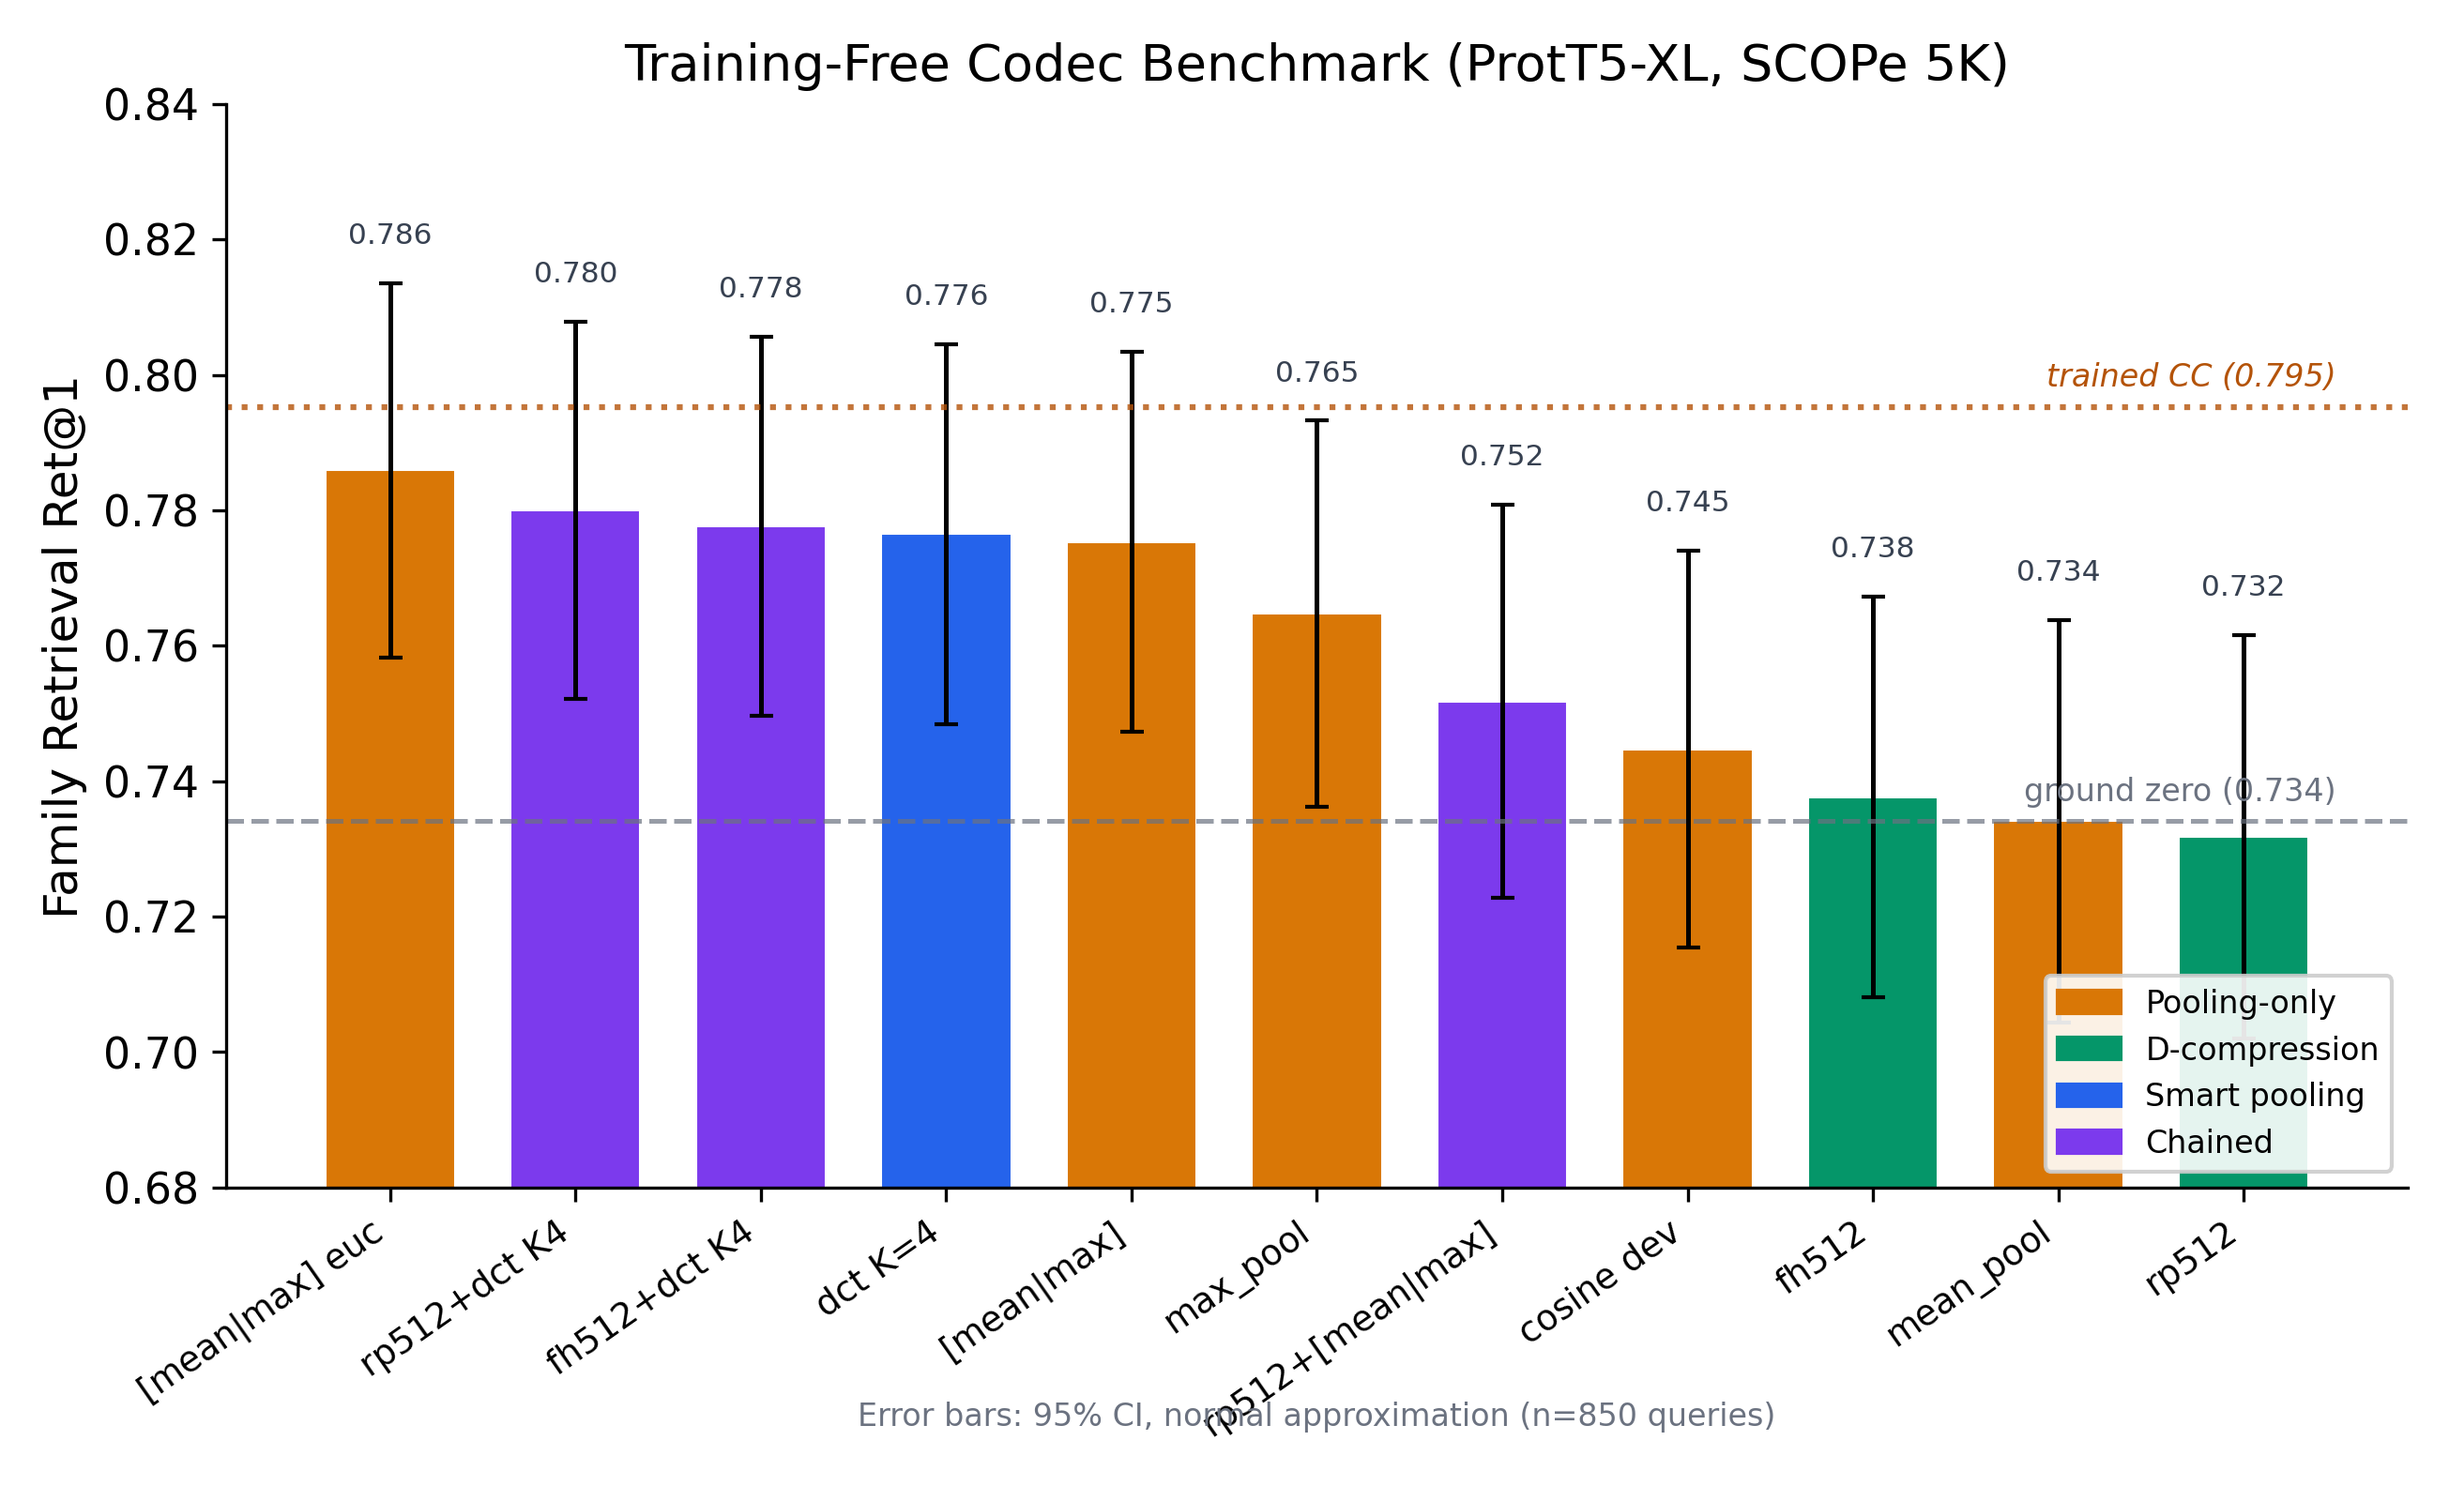
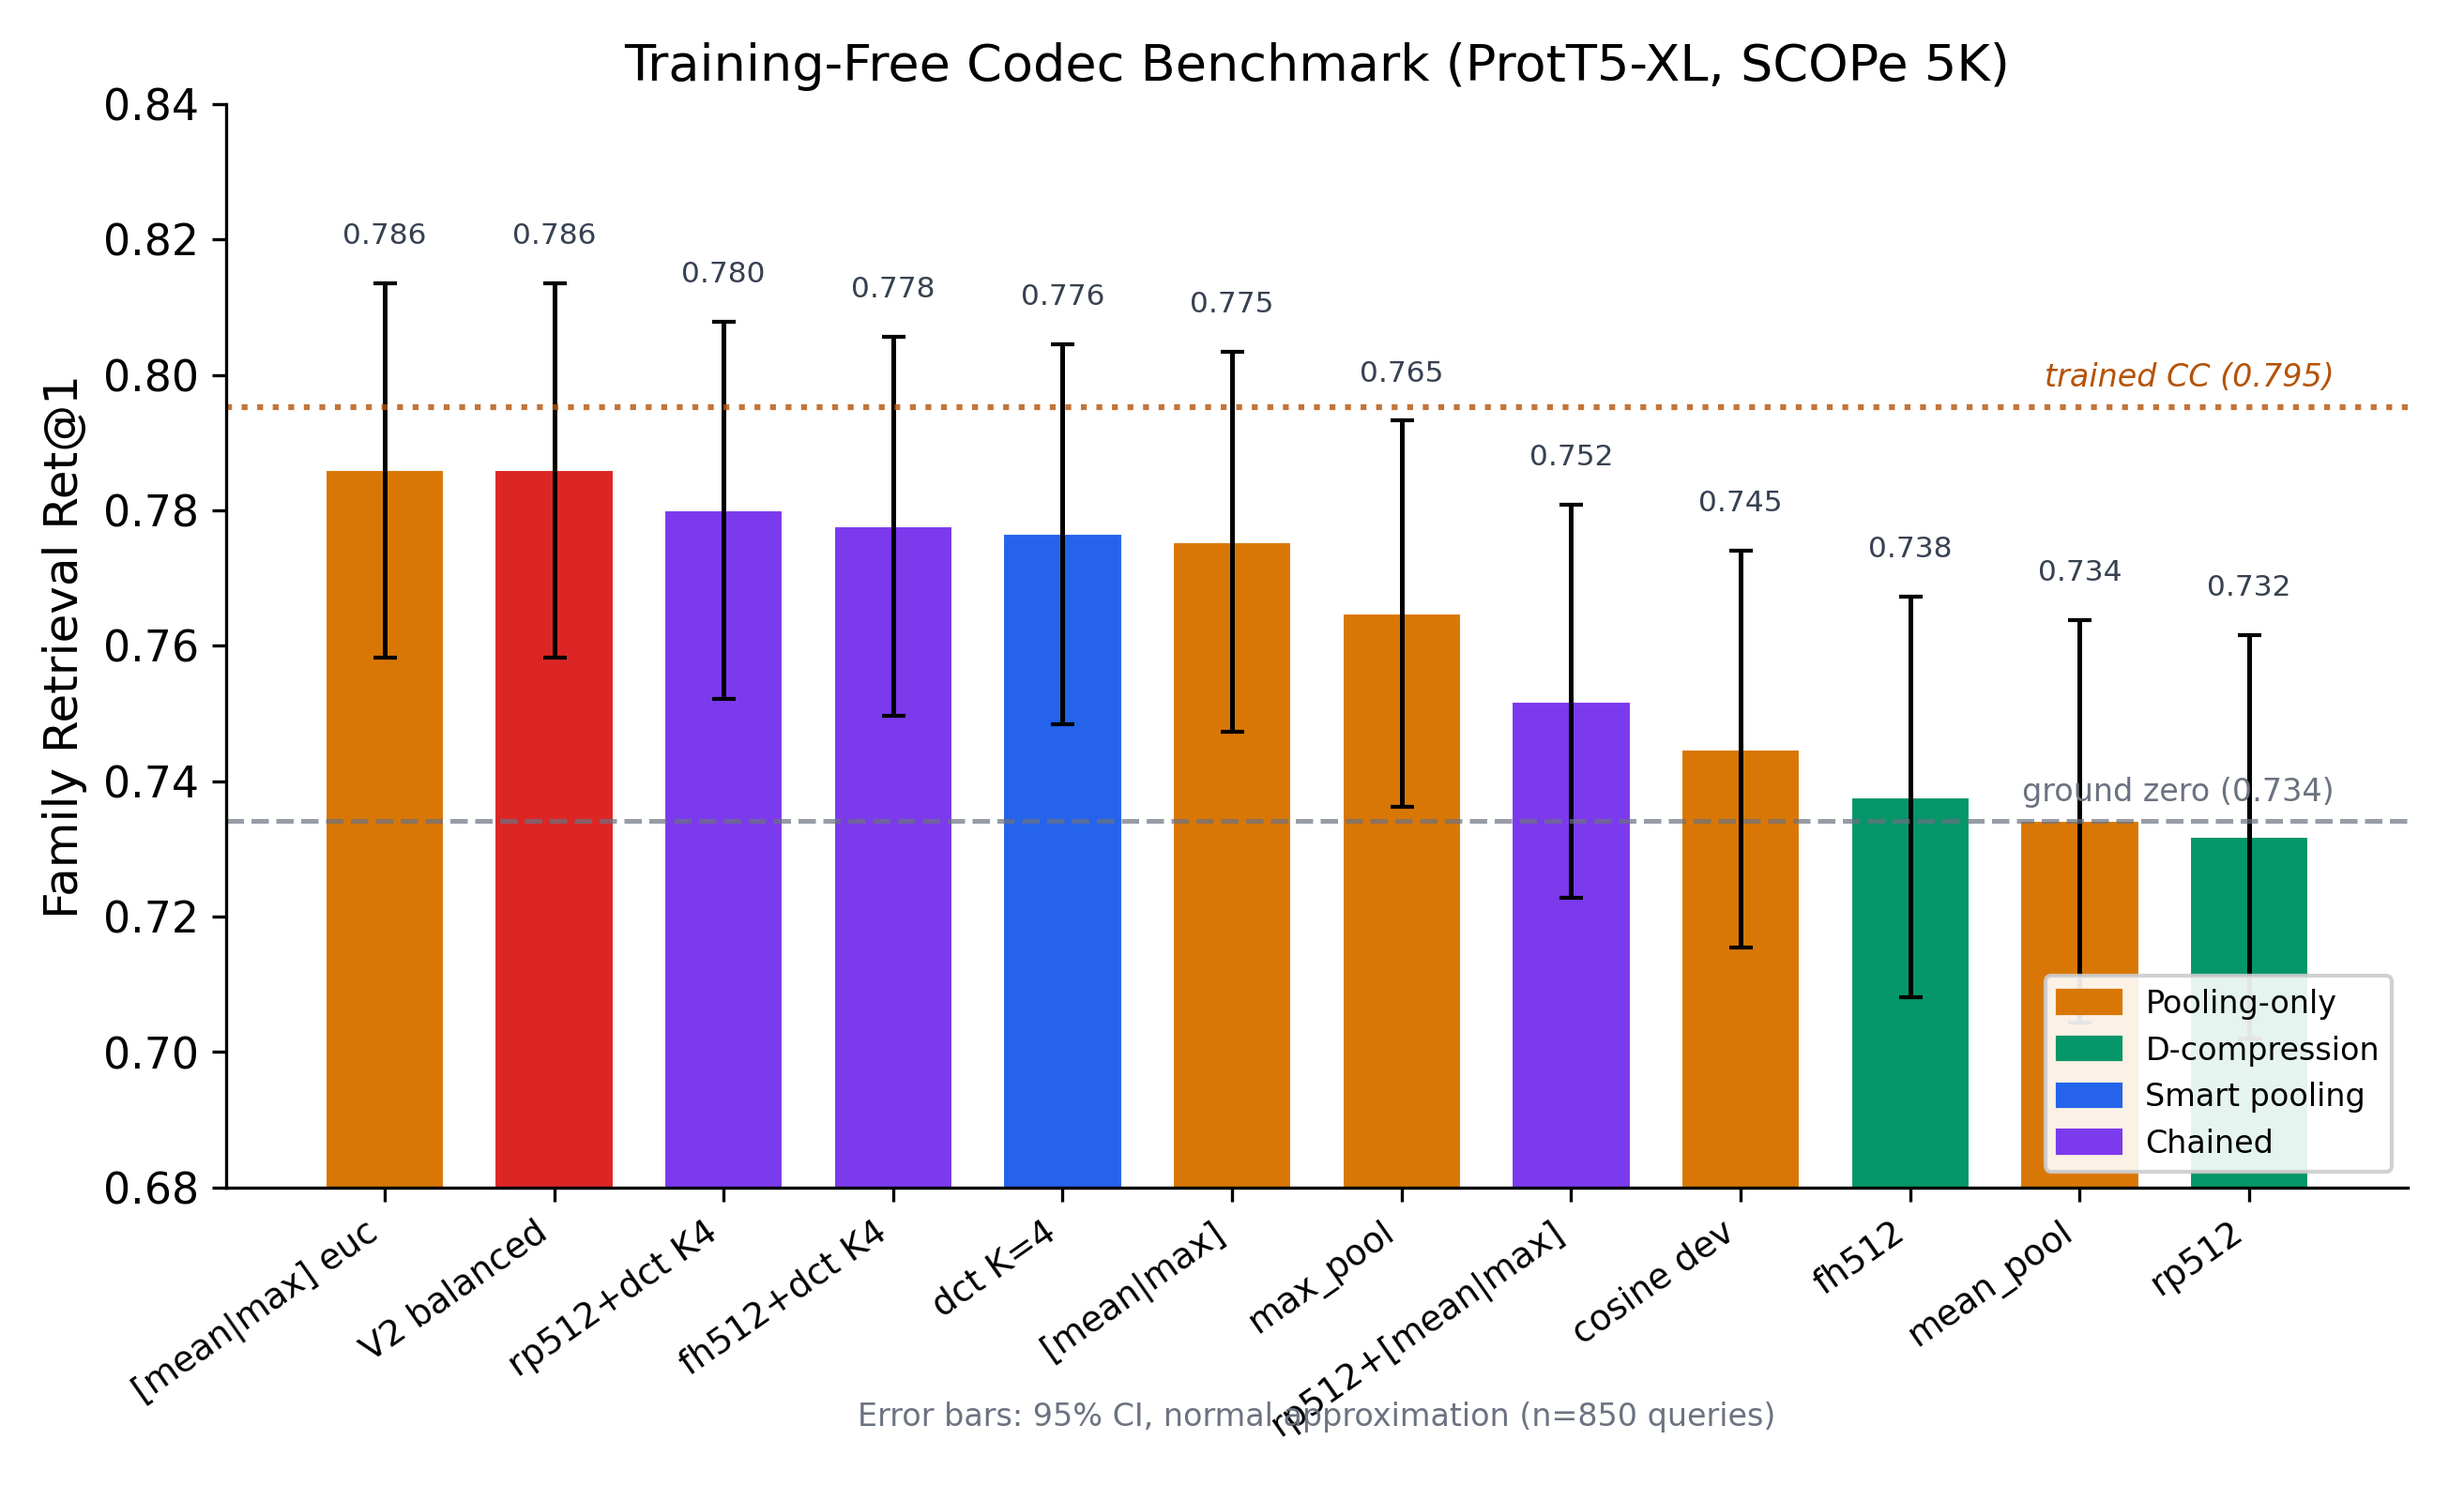
docs: add V2 balanced to all legacy figures (retrieval, per-residue, tradeoff)
Legacy figures now include V2 balanced (red) alongside V1 codecs:
- Codec retrieval bar chart: V2 balanced at 0.786, ties for #1
- Per-residue retention: V2 balanced bars for SS3/SS8/disorder/TM
- Tradeoff scatter: V2 balanced star in "both-task good" region

diff --git a/experiments/make_publication_figures.py b/experiments/make_publication_figures.py
@@ -162,6 +162,13 @@ def load_all_data():
     ch = load_json("data/benchmarks/channel_compression_results.json")
     data["channel_comp"] = ch
 
+    # Exp 34: V2 progressive codec (PQ tiers)
+    try:
+        v2 = load_json("data/benchmarks/progressive_codec_results.json")
+        data["v2"] = v2.get("D1", {})
+    except FileNotFoundError:
+        data["v2"] = {}
+
     return data
 
 
@@ -188,6 +195,10 @@ def fig_codec_retrieval(data):
         ("rp512+[mean|max]", data["chained_retrieval"]["prot_t5_xl_rp512_mean_max"]["family_ret1"]),
     ]
 
+    # V2 balanced (from Exp 34)
+    if data.get("v2", {}).get("balanced"):
+        codecs.append(("V2 balanced", data["v2"]["balanced"]["family_ret1"]))
+
     # Sort descending
     codecs.sort(key=lambda x: x[1], reverse=True)
     labels = [c[0] for c in codecs]
@@ -196,6 +207,8 @@ def fig_codec_retrieval(data):
 
     # Assign colors by category
     def _color(label):
+        if label.startswith("V2"):
+            return "#DC2626"  # red for V2 (stands out)
         if "rp512+" in label or "fh512+" in label:
             return CATEGORY_COLORS["Chained"]
         if label in ("rp512", "fh512"):
@@ -295,10 +308,26 @@ def fig_per_residue_retention(data):
     cc_pr = _get_trained_cc_per_residue(data)
     trained_cc = [cc_pr["ss3_q3"], cc_pr["ss8_q8"], cc_pr["disorder_rho"], cc_pr["tm_f1"]]
 
-    methods = ["Raw (1024d)", "rp512", "fh512", "Trained CC*"]
-    all_vals = [raw, rp512, fh512, trained_cc]
+    # V2 balanced (from Exp 34)
+    v2_bal = data.get("v2", {}).get("balanced", {})
+    v2_balanced = [
+        v2_bal.get("ss3_q3", 0),
+        v2_bal.get("ss8_q8", 0),
+        v2_bal.get("disorder_rho", 0),
+        v2_bal.get("tm_f1", 0),
+    ] if v2_bal else None
+
+    methods = ["Raw (1024d)", "rp512", "fh512", "V2 balanced", "Trained CC*"]
+    all_vals = [raw, rp512, fh512, v2_balanced, trained_cc]
     method_colors = ["#E5E7EB", CODEC_COLORS["rp512"], CODEC_COLORS["fh512"],
-                     CODEC_COLORS["trained_cc"]]
+                     "#DC2626", CODEC_COLORS["trained_cc"]]
+
+    # Filter out V2 if data not available
+    if v2_balanced is None:
+        idx = methods.index("V2 balanced")
+        methods.pop(idx)
+        all_vals.pop(idx)
+        method_colors.pop(idx)
 
     x = np.arange(len(tasks))
     width = 0.18
@@ -391,14 +420,20 @@ def fig_tradeoff_scatter(data):
     points.append(("trained CC*", "Trained",
                    np.mean(cc_ret1_vals), cc_pr["ss3_q3"]))
 
+    # V2 balanced (from Exp 34)
+    v2_bal = data.get("v2", {}).get("balanced", {})
+    if v2_bal:
+        points.append(("V2 balanced", "V2",
+                       v2_bal["family_ret1"], v2_bal["ss3_q3"]))
+
     fig, ax = plt.subplots(figsize=(8, 6))
 
     # Plot by category
     for name, cat, ret1, ss3 in points:
-        color = CATEGORY_COLORS[cat]
-        marker = "*" if cat == "Trained" else "o"
-        size = 200 if cat == "Trained" else 80
-        zorder = 10 if cat == "Trained" else 5
+        color = CATEGORY_COLORS.get(cat, "#DC2626")  # red for V2
+        marker = "*" if cat in ("Trained", "V2") else "o"
+        size = 200 if cat in ("Trained", "V2") else 80
+        zorder = 10 if cat in ("Trained", "V2") else 5
         ax.scatter(ret1, ss3, c=color, s=size, marker=marker,
                    edgecolors="white", linewidths=0.8, zorder=zorder)
         # Label
@@ -410,6 +445,9 @@ def fig_tradeoff_scatter(data):
         elif "trained" in name:
             offset_x = 0.005
             offset_y = -0.015
+        elif "V2" in name:
+            offset_x = 0.005
+            offset_y = -0.020
         ax.annotate(name, (ret1, ss3),
                     xytext=(ret1 + offset_x, ss3 + offset_y),
                     fontsize=7.5, color="#374151")
@@ -435,7 +473,10 @@ def fig_tradeoff_scatter(data):
     ax.spines["right"].set_visible(False)
 
     # Legend
-    handles = [mpatches.Patch(color=c, label=l) for l, c in CATEGORY_COLORS.items()]
+    all_cats = dict(CATEGORY_COLORS)
+    if data.get("v2", {}).get("balanced"):
+        all_cats["V2"] = "#DC2626"
+    handles = [mpatches.Patch(color=c, label=l) for l, c in all_cats.items()]
     ax.legend(handles=handles, loc="lower left", fontsize=8, framealpha=0.9)
 
     ax.text(0.5, -0.12,

diff --git a/README.md b/README.md
@@ -243,7 +243,7 @@ There is a fundamental tension between retrieval and per-residue quality:
 
 ![Per-Residue Retention](docs/figures/pub_per_residue_retention.png)
 
-D-compression codecs (rp512, fh512) retain 93-97% of raw per-residue task performance across secondary structure, disorder, and membrane topology prediction. Product Quantization on the preprocessed space adds negligible further degradation for the `balanced` and `full` tiers.
+D-compression codecs (rp512, fh512) retain 93-97% of raw per-residue task performance across secondary structure, disorder, and membrane topology prediction. V2 `balanced` (red) shows the effect of PQ quantization on top: SS3 and SS8 remain close to the RP baseline, while disorder and TM see modest drops. The `full` (int4) tier matches the RP baseline almost exactly.
 
 ## Cross-PLM Results
 
